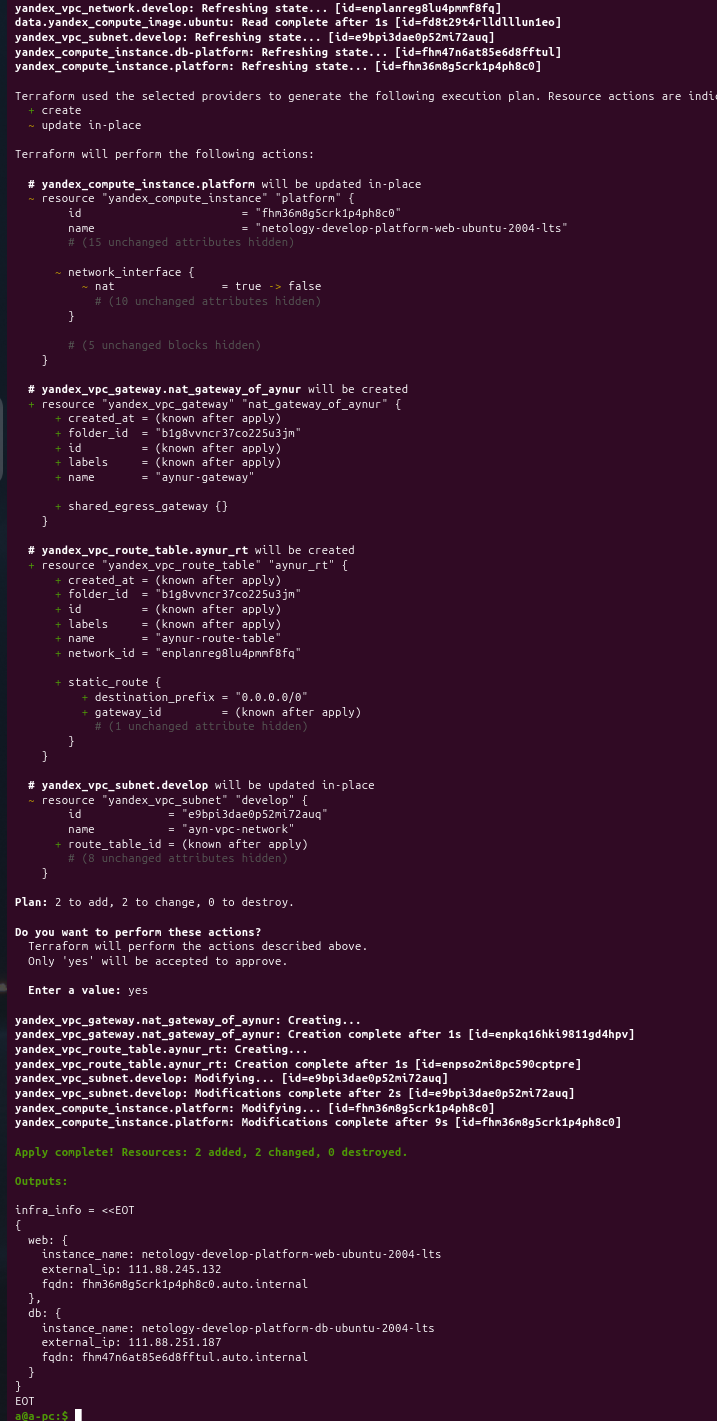
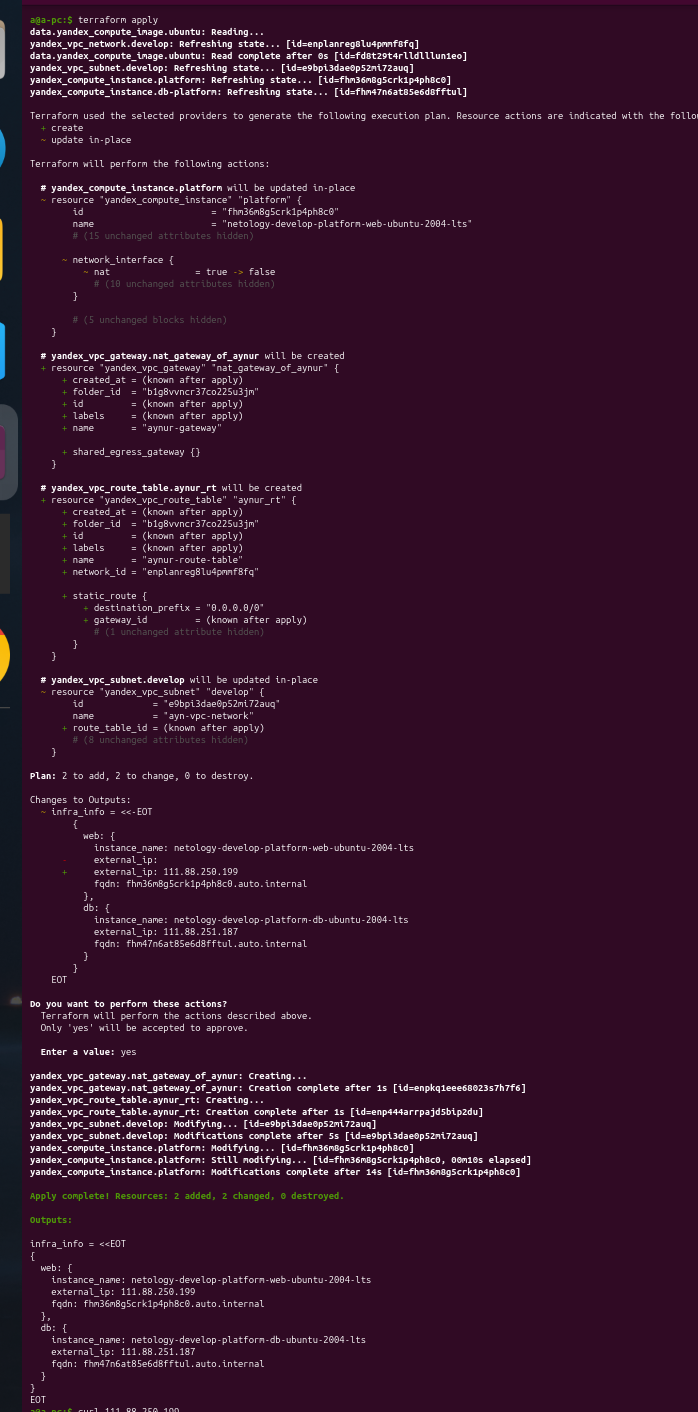
2-module-terraf: task 2: 9

diff --git a/2-module-terraform/task2/readme.md b/2-module-terraform/task2/readme.md
@@ -98,7 +98,21 @@ $ terraform console
 
 ## Задание 9*
 
+Сделала пароль пользователя в ВМ.
+
+NAT-шлюз настроила - оутпут что-то не то показывает после `terraform apply`.
+
 ![](./assets/9-1.png)
+
+В веб-консоли ЯО нет публичного адреса у ВМ:
+
+![](./assets/9-2.png)
+
+И через cli инструмент нет публичного адреса у ВМ и ссш доступа нет, висит запрос долго, а оптом выходит с таймаутом.
+![](./assets/9-3.png)
+
+Зашла через последовательный порт: Доступ наружу есть! Пингуются разные ресурсы:
+![](./assets/9-4.png)
 
 
 
